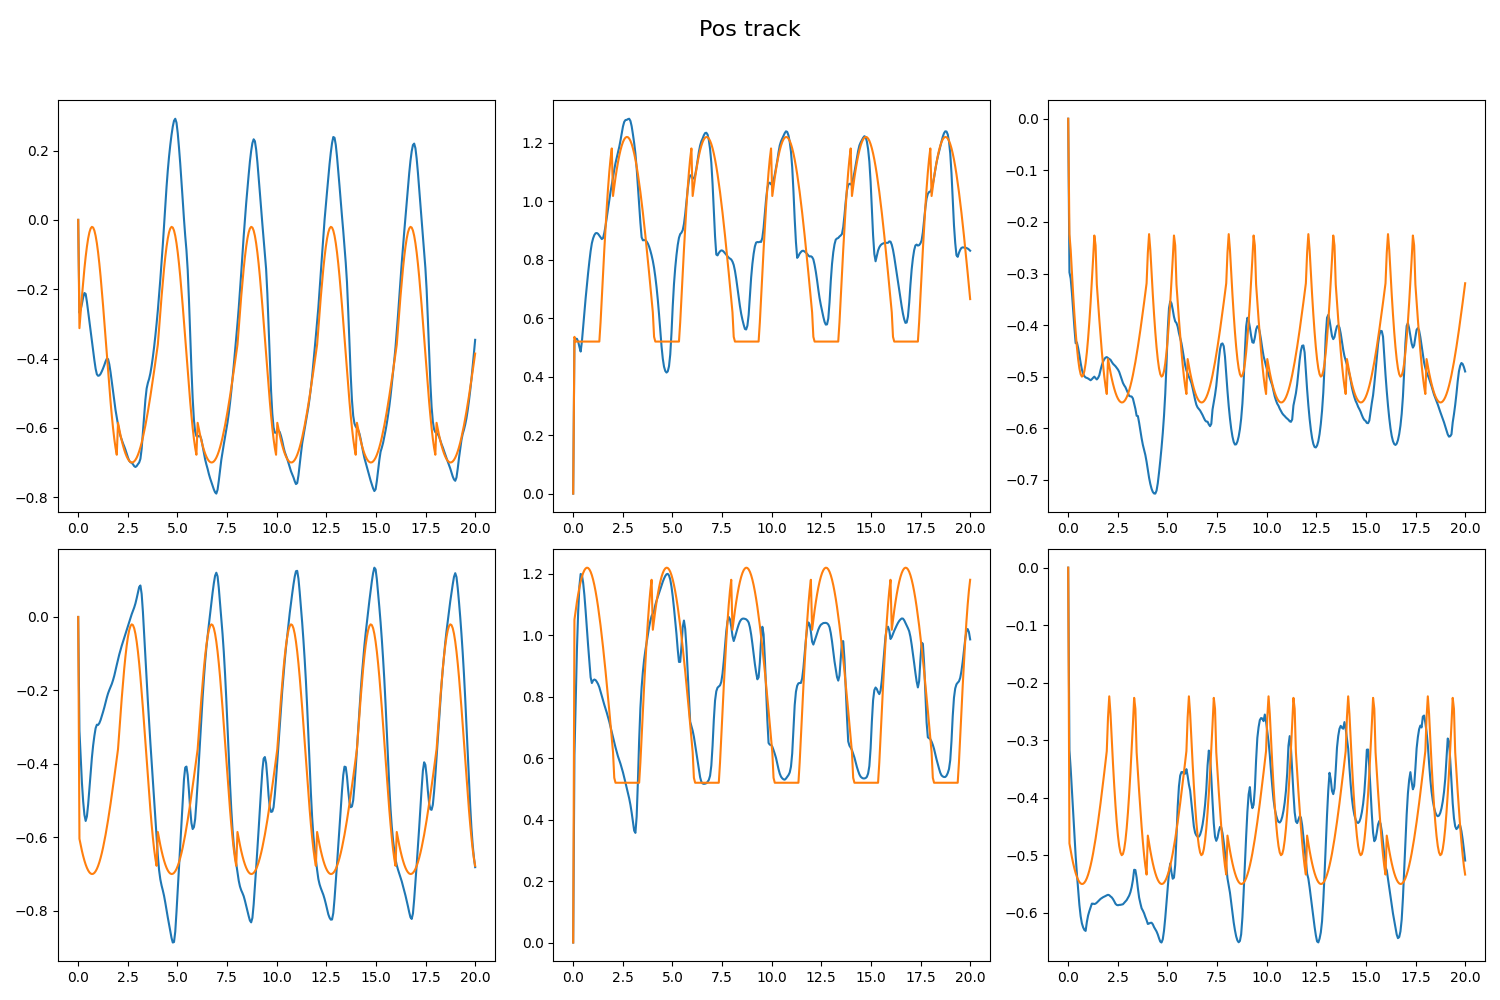
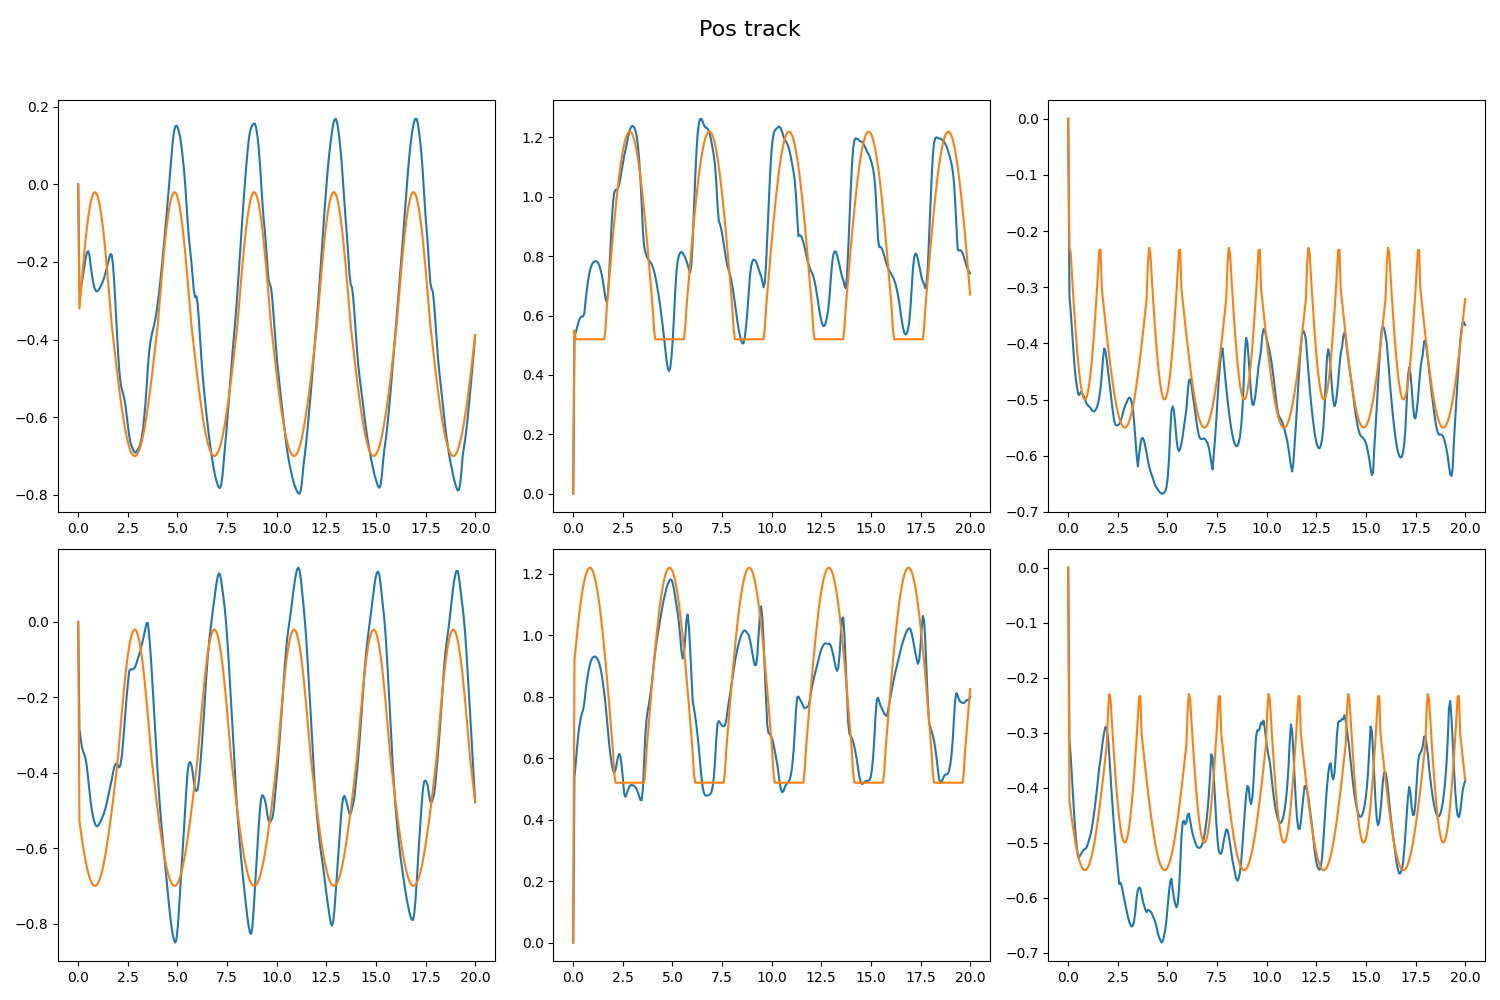
update the run motion test

diff --git a/kuavo_gait_isaacsim.py b/kuavo_gait_isaacsim.py
@@ -1,0 +1,85 @@
+# -*- coding: utf-8 -*-
+# Copyright (c) 2020-2024, NVIDIA CORPORATION. All rights reserved.
+#
+# NVIDIA CORPORATION and its licensors retain all intellectual property
+# and proprietary rights in and to this software, related documentation
+# and any modifications thereto. Any use, reproduction, disclosure or
+# distribution of this software and related documentation without an express
+# license agreement from NVIDIA CORPORATION is strictly prohibited.
+#
+'''
+@File    : getting_started_kuavo.py
+@Time    : 2025/04/15 19:38:34
+@Author  : wty-yy
+@Version : 1.0
+@Blog    : https://wty-yy.github.io/
+@Desc    : None
+'''
+
+from isaacsim import SimulationApp
+simulation_app = SimulationApp({"headless": False})  # start the simulation app, with GUI open
+
+import torch
+import numpy as np
+from isaacsim.core.api import World
+from isaacsim.core.prims import Articulation
+from isaacsim.core.utils.stage import add_reference_to_stage, get_stage_units
+from isaacsim.core.utils.viewports import set_camera_view
+
+import pandas as pd
+import time
+
+asset_path = "biped_s42_fixed.usd"
+legged_mapping = {
+    'knee': 'leg_*4_joint',
+    'hip': 'leg_*3_joint',
+    'ankle': 'leg_*5_joint'
+}
+
+def trun_sin(x, min: float, max: float):
+    return (np.sin(x) + 1) / 2 * (max - min) + min
+
+legged_dof_pos_func = {
+    'hip': lambda phi: trun_sin(2 * np.pi * phi, -0.7854, -0),
+    'knee': lambda phi: trun_sin(2 * np.pi * (phi+3/16), 0.5236, 1.7453),
+    'ankle': lambda phi: trun_sin(2 * np.pi * (phi-3/8), -0.4363, 0.0873)
+}
+
+class Runner:
+    def __init__(self):
+        self.hz = 1000
+        self.world = World(physics_dt=1/self.hz, stage_units_in_meters=1.0, backend='torch', device='cpu')
+        self.world.scene.add_default_ground_plane()  # add ground plane
+        set_camera_view(
+            eye=[0.0, 4.0, 1.5], target=[0.00, 0.00, 1.00], camera_prim_path="/OmniverseKit_Persp"
+        )  # set camera view
+
+        prim_path = "/World/bot"
+        add_reference_to_stage(usd_path=asset_path, prim_path=prim_path)  # add robot to stage
+        self.bot = Articulation(prim_paths_expr=prim_path, name='kauvo')
+        self.bot.set_world_poses(positions=torch.tensor([[0.0, 0.0, 0.1]]) / get_stage_units())
+        self.world.reset()
+
+        self.last_dof_pos = [0] * len(self.bot.dof_names)
+        self.cycle_time = 1.2
+
+    def run(self):
+        while True:
+            phi = self.world.current_time / self.cycle_time % 1
+            for key in ['knee', 'hip', 'ankle']:
+                for idx, name in zip((0, 1), ('l', 'r')):
+                    rad = legged_dof_pos_func[key]((phi + 0.375 * idx) % 1)
+                    dof_idx = self.bot.get_dof_index(legged_mapping[key].replace('*', name))
+                    self.last_dof_pos[dof_idx] = rad
+            # self.bot.set_joint_position_targets([self.last_dof_pos])
+            # self.bot.set_body_coms(positions=torch.tensor([[[0.0, 0.0, 1.89]]]) / get_stage_units(), 
+            #                        orientations = torch.tensor([[[0.7835, 0.0000, 0.0000, -0.6214]]])/ get_stage_units())
+            if self.world.current_time / self.cycle_time >= 1:
+                self.bot.set_joint_positions(torch.tensor([self.last_dof_pos], dtype=torch.float))
+            self.world.step(render=True)
+
+
+if __name__ == '__main__':
+    runner = Runner()
+    runner.run()
+    simulation_app.close()

diff --git a/source/isaaclab/isaaclab/envs/manager_based_rl_env.py b/source/isaaclab/isaaclab/envs/manager_based_rl_env.py
@@ -21,7 +21,7 @@ from isaaclab.ui.widgets import ManagerLiveVisualizer
 from .common import VecEnvStepReturn
 from .manager_based_env import ManagerBasedEnv
 from .manager_based_rl_env_cfg import ManagerBasedRLEnvCfg
-
+import isaaclab_tasks.manager_based.locomotion.velocity.mdp as mdp
 
 class ManagerBasedRLEnv(ManagerBasedEnv, gym.Env):
     """The superclass for the manager-based workflow reinforcement learning-based environments.
@@ -178,7 +178,11 @@ class ManagerBasedRLEnv(ManagerBasedEnv, gym.Env):
         # check if we need to do rendering within the physics loop
         # note: checked here once to avoid multiple checks within the loop
         is_rendering = self.sim.has_gui() or self.sim.has_rtx_sensors()
-
+        # if self.episode_length_buf[0] < 20:
+        #     # actions = torch.tensor([0.0, 0.0, 0.0, 0.0, -0.27, -0.27, 0.52,  0.52, -0.3, -0.3, 0.0, 0.0], device=self.device).unsqueeze(0).repeat(self.num_envs, 1)
+        #     actions = torch.tensor([0.0, 0.0, 0.0, 0.0, 0, 0, 0.0,  0.0, -0.0, -0.0, 0.0, 0.0], device=self.device).unsqueeze(0).repeat(self.num_envs, 1)
+        # else:
+        #     actions = mdp.compute_ref_state_wbc(self, "base_velocity")
         # perform physics stepping
         for _ in range(self.cfg.decimation):
             self._sim_step_counter += 1
@@ -432,7 +436,7 @@ class ManagerBasedRLEnv(ManagerBasedEnv, gym.Env):
         
         plt.tight_layout()
         plt.subplots_adjust(top=0.9)
-        plt.savefig("./imgs/track.png")
+        plt.savefig("./imgs/track2.png")
         self.dof_pos_buf = torch.zeros((2001, 6), device=self.device)
         self.ref_dof_pos_buf = torch.zeros((2001, 6), device=self.device)
         print("saved")

diff --git a/source/isaaclab/isaaclab/assets/articulation/articulation.py b/source/isaaclab/isaaclab/assets/articulation/articulation.py
@@ -169,7 +169,7 @@ class Articulation(AssetBase):
         self._external_force_b[env_ids] = 0.0
         self._external_torque_b[env_ids] = 0.0
 
-    def write_data_to_sim(self):
+    def write_data_to_sim(self, actions: torch.tensor | None = None):
         """Write external wrenches and joint commands to the simulation.
 
         If any explicit actuators are present, then the actuator models are used to compute the
@@ -192,6 +192,14 @@ class Articulation(AssetBase):
         # apply actuator models
         self._apply_actuator_model()
         # write actions into simulation
+        # position = torch.tensor([[0.0, 0.0, 0.89]], device=self.device)
+        # orientation = torch.tensor([[0.7835, 0.0000, 0.0000, -0.6214]], device=self.device)
+        # if actions is None:
+        # self.write_root_pose_to_sim(torch.cat([position, orientation], dim=-1), env_ids=self._ALL_INDICES)
+        # if actions is not None:
+        #     # action = torch.tensor([0, 0, 0, 0, 1.0, 0, 0, 0, 0, 0, 0, 0], device=self.device).unsqueeze(0).repeat(1, 1)
+        #     self.write_joint_position_to_sim(actions, env_ids=self._ALL_INDICES)
+            
         self.root_physx_view.set_dof_actuation_forces(self._joint_effort_target_sim, self._ALL_INDICES)
         # position and velocity targets only for implicit actuators
         if self._has_implicit_actuators:

diff --git a/source/isaaclab_tasks/isaaclab_tasks/manager_based/locomotion/velocity/mdp/rewards_hugwbc.py b/source/isaaclab_tasks/isaaclab_tasks/manager_based/locomotion/velocity/mdp/rewards_hugwbc.py
@@ -42,6 +42,14 @@ def compute_ref_state_wbc(env: ManagerBasedRLEnv, command_name: str, asset_cfg: 
     ref_dof_pos[:, 9] = trun_sin(2 * torch.pi * phi[:, 1], -0.55, -0.05)
     ref_dof_pos[:, 9] = torch.where(ref_dof_pos[:, 9] < asset.data.default_joint_pos[:, 9], 
                                     ref_dof_pos[:, 9], - ref_dof_pos[:, 5] - ref_dof_pos[:, 7])
+    # run test
+    # ref_dof_pos[:, 4] = trun_sin(2 * torch.pi * phi[:, 0], -0.7854, -0)
+    # ref_dof_pos[:, 6] = trun_sin(2 * torch.pi * (phi[:, 0] + 3/16), 0.5236, 1.7453)
+    # ref_dof_pos[:, 8] = trun_sin(2 * torch.pi * (phi[:, 0] - 3/8), -0.4363, 0.0873)
+    # # right foot stance phase set to default joint pos, r3, r4, r5
+    # ref_dof_pos[:, 5] = trun_sin(2 * torch.pi * phi[:, 1], -0.7854, -0)
+    # ref_dof_pos[:, 7] = trun_sin(2 * torch.pi * (phi[:, 1] + 3/16), 0.5236, 1.7453)
+    # ref_dof_pos[:, 9] = trun_sin(2 * torch.pi * (phi[:, 1] - 3/8), -0.4363, 0.0873)
     return ref_dof_pos.to(device=env.device)
 
 # ================================================ Rewards ================================================== #

diff --git a/source/isaaclab/isaaclab/envs/mdp/observations.py b/source/isaaclab/isaaclab/envs/mdp/observations.py
@@ -574,9 +574,11 @@ def phi(env: ManagerBasedRLEnv, command_name: str):
     phi = torch.zeros((command.shape[0], 2), device=env.device)
     stand_env_ids = (command[:, 3] == 3.).nonzero(as_tuple=False).flatten()
     jump_env_ids = (command[:, 3] == 2.).nonzero(as_tuple=False).flatten()
+    run_env_ids = (command[:, 3] == 1.).nonzero(as_tuple=False).flatten()
     phi[:, 0] = (episode_length_buf % cycle_steps) / cycle_steps
     phi[:, 1] = (episode_length_buf % cycle_steps) / cycle_steps + 0.5
     phi[stand_env_ids, :] = torch.tensor([[0.25, 0.25]]).to(env.device)
+    phi[run_env_ids, 1] -= 0.125
     phi[jump_env_ids, 1] -= 0.5
     phi[phi > 1] -= 1
     phi = torch.where(phi < phi_stance, 0.5 * phi / phi_stance, 0.5 * (phi - phi_stance) / (1 - phi_stance) + 0.5)

diff --git a/source/isaaclab/isaaclab/scene/interactive_scene.py b/source/isaaclab/isaaclab/scene/interactive_scene.py
@@ -387,11 +387,11 @@ class InteractiveScene:
         for sensor in self._sensors.values():
             sensor.reset(env_ids)
 
-    def write_data_to_sim(self):
+    def write_data_to_sim(self, actions=None):
         """Writes the data of the scene entities to the simulation."""
         # -- assets
         for articulation in self._articulations.values():
-            articulation.write_data_to_sim()
+            articulation.write_data_to_sim(actions=actions)
         for deformable_object in self._deformable_objects.values():
             deformable_object.write_data_to_sim()
         for rigid_object in self._rigid_objects.values():

diff --git a/source/isaaclab_tasks/isaaclab_tasks/manager_based/locomotion/velocity/velocity_env_cfg_leju_wbc.py b/source/isaaclab_tasks/isaaclab_tasks/manager_based/locomotion/velocity/velocity_env_cfg_leju_wbc.py
@@ -100,10 +100,10 @@ class CommandsCfg:
         heading_control_stiffness=0.5,
         debug_vis=True,
         ranges=mdp.HumanoidWholeBodyControlCommandCfg.Ranges(
-            gaits=(0.0, 2.0),
+            gaits=(2.0, 3.0),
             walk_lin_vel_x=(-0.4, 1.0), 
-            run_lin_vel_x=(1.0, 2.0), 
-            jump_lin_vel_x=(-0.4, 1.5),
+            run_lin_vel_x=(1.0, 1.5), 
+            jump_lin_vel_x=(-0.4, 1.0),
             lin_vel_y=(-0.2, 0.2), 
             ang_vel_z=(-0.4, 0.4), 
             heading=(-math.pi, math.pi), 

diff --git a/source/isaaclab_tasks/isaaclab_tasks/manager_based/locomotion/velocity/config/leju_wbc/flat_env_cfg.py b/source/isaaclab_tasks/isaaclab_tasks/manager_based/locomotion/velocity/config/leju_wbc/flat_env_cfg.py
@@ -25,6 +25,7 @@ class LejuWBCFlatEnvCfg(LejuWBCRoughEnvCfg):
         # Commands
         # self.commands.base_velocity.ranges.gaits = (1.0, 2.0)
         # self.commands.base_velocity.ranges.gaits = (0.0, 1.0)
+        # self.commands.base_velocity.ranges.walk_lin_vel_x = (0.5, 0.5)
         # self.commands.base_velocity.ranges.run_lin_vel_x = (2.0, 2.0)
         # self.commands.base_velocity.ranges.lin_vel_y = (0.0, 0.0)
         # self.commands.base_velocity.ranges.ang_vel_z = (0.0, 0.0)       

diff --git a/source/isaaclab/isaaclab/envs/mdp/commands/velocity_command.py b/source/isaaclab/isaaclab/envs/mdp/commands/velocity_command.py
@@ -359,4 +359,4 @@ class HumanoidWholeBodyControlCommand(UniformVelocityCommand):
         self.vel_command_b[jump_env_ids, 2] = r.uniform_(*self.cfg.ranges.ang_vel_z)
         
         self.phi_stance[env_ids, :] = 0.5
-        self.phi_stance[run_env_ids, 0] = 0.5 - 0.08 * (torch.norm(self.vel_command_b[run_env_ids, :3], dim=1) - 1.0)
+        # self.phi_stance[run_env_ids, 0] = 0.5 - 0.3 * (torch.norm(self.vel_command_b[run_env_ids, :3], dim=1) - 1.0)
